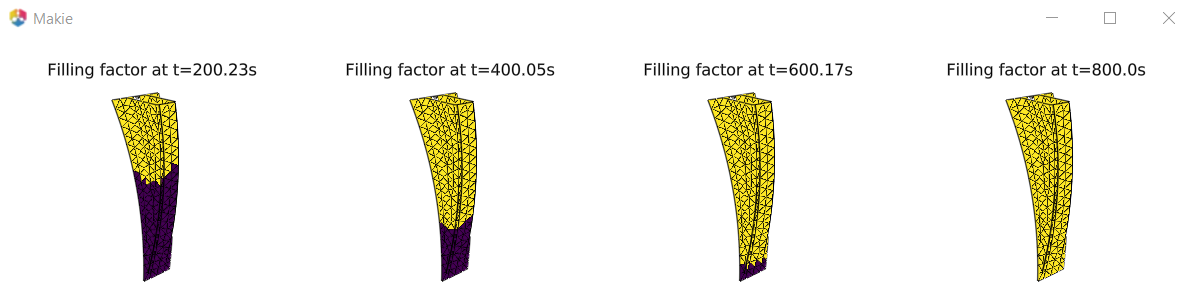
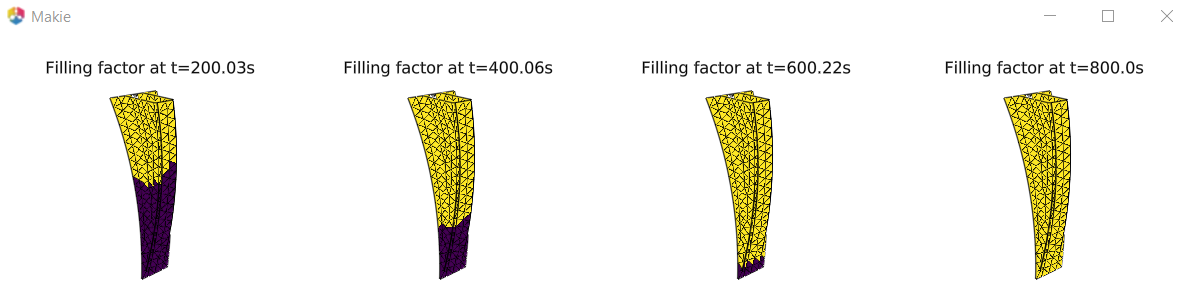
example 2 reworked

diff --git a/README.md b/README.md
@@ -131,7 +131,7 @@ Set 1 is the pressure inlet, set 2 and set 3 are reinforcement patches with lowe
 Continue the simulation for another 100 s simulation time and plot the filling overview:<br>
 <img src="figures/example1c.png"><br>
 
-2. This example shows how to use outlet ports and how to modify the code. If outlet ports are defined, the outlet ports are connected to the catch pot (typically at ambient pressure or evacuated). If no outlet ports are defined, these hoses are clamped. If pressure outlets are defined, wiggles at the pressure outlet can be introduced. To limit these oscillations a gradient limiter is used in the function `numerical_gradient`. The function is called with i_method=2 as first argument: 
+2. This example shows how to use outlet ports and how to customize the code. If outlet ports are defined, the outlet ports are connected to the catch pot (typically at ambient pressure or evacuated). If no outlet ports are defined, these hoses are clamped. If wiggles (oscillations) are present in the pressure contour plot, a gradient limiter is used in the function `numerical_gradient`. The function is called with i_method=2 as first argument: 
 `dpdx,dpdy=numerical_gradient(2,ind,p_old,cellneighboursarray,cellcentertocellcenterx,cellcentertocellcentery);` <br>
 After modifying and compiling the code and starting the GUI, the simulation is started with the following settings:<br>
 <img src="figures/example2a.png"><br>
@@ -139,7 +139,8 @@ The results plot shows the completely filled part with the grey inlet and outlet
 <img src="figures/example2b.png"><br>
 The filling overview is:<br>
 <img src="figures/example2c.png"><br>
-
+The filling overview without pressure shows only slighly differences at the end of the filling:<br>
+<img src="figures/example2e.png"><br>
 
 
 3. This example shows a workflow for selecting the inlet ports interactively. First, select the mesh file `meshfiles\\mesh_annulusfiller1.bdf` and plot the mesh to see the bounding box size of the part:<br>
@@ -165,3 +166,7 @@ The source code is prepared for the following extensions:
 - Import mesh file in different format. Selection is based on the extension of the mesh file.
 - Input parameter `i_model` (for iso-thermal RTM `=1`) is used for adding additional functionalities. E.g. adding temperature and degree-of-cure equations with variable resin viscosity ar for VARI with variable porosity and permeability.
 - Parameter `i_method` in the functions for numerical differentiation and flux functions can be used to implement different numerical schemes. E.g. gradient limiter or second-order upwinding.
+
+E.g. a numerical gradient calculation with gradient limiter is used if the function `numerical_gradient` is called with i_method=2 as first argument: 
+`dpdx,dpdy=numerical_gradient(2,ind,p_old,cellneighboursarray,cellcentertocellcenterx,cellcentertocellcentery);` <br>
+After modifying and compiling the RTMsim module, a simulation can be started with the GUI or with the terminal.
